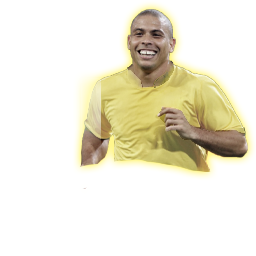
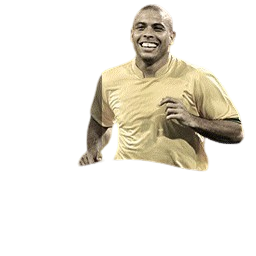
Modified FCMSquad

Changed region(s): [[0.2812, 0.0, 1.0, 0.6875]]

diff --git a/fcmsquad/resources/mainData.js b/fcmsquad/resources/mainData.js
@@ -2307,8 +2307,8 @@ const cardData = [
     {idx: 33, code: "RS22", name: "레트로 썸머 22", otherNames: ["RS", "썸머", "레썸", "써머"], image: "./resources/cards/RS22.png", type: "fm", color: "white"},
     {idx: 34, code: "RS22_ICON", name: "레트로 썸머 22 아이콘", otherNames: ["RS", "썸머", "레썸", "써머"], image: "./resources/cards/RS22_Icon.png", type: "fm", color: "white"},
     {idx: 35, code: "LN22", name: "LN22 아이콘_7번", otherNames: ["LN22", "LN", "레전더리 넘버", "레넘", "엘엔"], image: "./resources/cards/LegendaryNumbers22_7.png", type: "fm", color: "white"},
-    {idx: 36, code: "RMA22", name: "레알 엠버서더", otherNames: ["레엠", "RMA"], image: "./resources/cards/RMA22.png", type: "fm", color: "#664B00"},
-    {idx: 37, code: "RMA22_ICON", name: "레알 엠버서더 아이콘", otherNames: ["레엠", "RMA"], image: "./resources/cards/RMA22_Icons.png", type: "fm", color: "#664B00"},
+    {idx: 36, code: "RMA", name: "레알 엠버서더", otherNames: ["레엠", "RMA"], image: "./resources/cards/RMA22.png", type: "fm", color: "#664B00"},
+    {idx: 37, code: "RMA", name: "레알 엠버서더 아이콘", otherNames: ["레엠", "RMA"], image: "./resources/cards/RMA22_Icons.png", type: "fm", color: "#664B00"},
     {idx: 38, code: "KOT", name: "TT22", otherNames: ["TT22", "22TT", "TT", "티티", "녹즙"], image: "./resources/cards/TopTransfers22.png", type: "fm", color: "white"},
     {idx: 39, code: "TT22_ICON", name: "TT22 아이콘", otherNames: ["TT22", "22TT", "TT", "티티", "녹즙"], image: "./resources/cards/TT22_Icon.png", type: "fm", color: "white"},
     {idx: 40, code: "WC22_BASE", name: "월드컵22 베이스(11.17출시)", otherNames: ["월드컵", "월베", "베이스"], image: "./resources/cards/WorldCup22_Base.png", type: "fm", color: "white"},

diff --git a/fcmsquad/resources/faceData2.js b/fcmsquad/resources/faceData2.js
@@ -1348,6 +1348,7 @@ const faceData2 = [
             "./resources/players/players_23/p258779_BASEPLUS2.png",
             "./resources/players/players_22/p258779_PRIME.png",
             "./resources/players/players_22/p258779_BASEPLUS.png",
+            "./resources/players/players_22/p258779_RMA.png",
             "./resources/players/players_22/p258779.png"
         ]
     },
